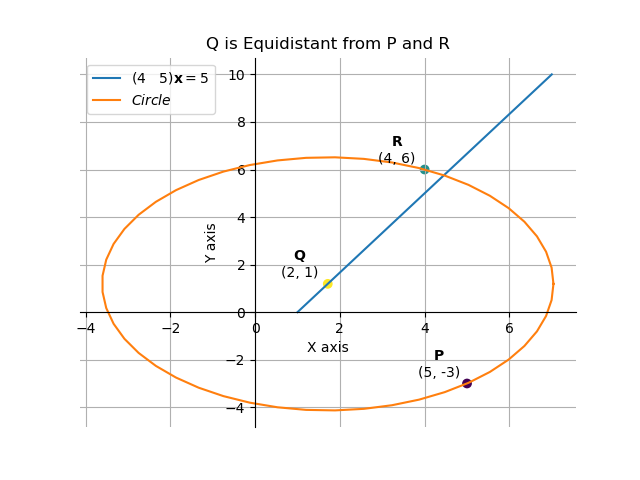
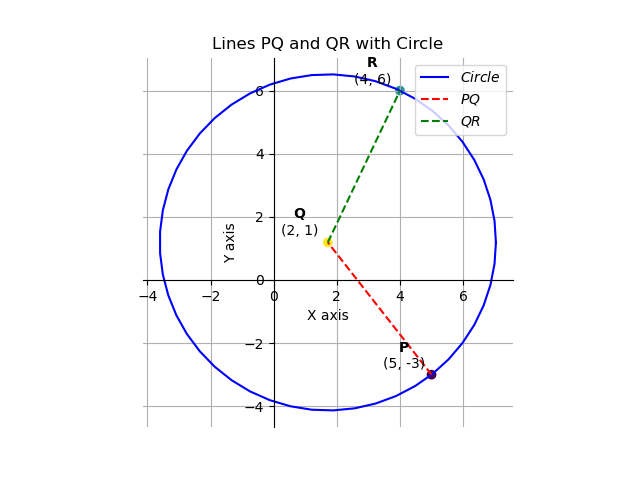
commit

diff --git a/assignment3/codes/distances.py b/assignment3/codes/distances.py
@@ -17,8 +17,6 @@ from conics.funcs import circ_gen
 from line.funcs import *
 
 # if using termux
-import subprocess
-import shlex
 
 # Define points P and R
 P = np.array([5, -3]).reshape(-1, 1)  # Point P (5, -3)
@@ -43,16 +41,12 @@ print(Q, r)  # Print the center and radius
 # Generating circle points
 x_circ = circ_gen(Q, r)
 
-# Generating lines
-k1 = -2
-k2 = 0
-x_A = line_norm(n, c, k1, k2)
+# Plotting the circle
+plt.plot(x_circ[0, :], x_circ[1, :], label='$Circle$', color='blue')  # Plot circle
 
-# Plotting all lines and circles
-plt.plot(x_A[0, :], x_A[1, :], label='$(4 \quad 5)\mathbf{x}=5$')  # Plot line
-plt.plot(x_circ[0, :], x_circ[1, :], label='$Circle$')  # Plot circle
-
+# Colors for points
 colors = np.arange(1, 4)
+
 # Labeling the coordinates
 tri_coords = np.block([P, R, Q])  # Create block matrix for coordinates
 plt.scatter(tri_coords[0, :], tri_coords[1, :], c=colors)
@@ -64,6 +58,10 @@ for i, txt in enumerate(vert_labels):
                  xytext=(-20, 5),  # distance from text to points (x, y)
                  ha='center')  # horizontal alignment
 
+# Add lines connecting points P, Q, and R
+plt.plot([P[0, 0], Q[0, 0]], [P[1, 0], Q[1, 0]], 'r--', label='$PQ$')  # Line joining P and Q
+plt.plot([Q[0, 0], R[0, 0]], [Q[1, 0], R[1, 0]], 'g--', label='$QR$')  # Line joining Q and R
+
 # Set axes styles and position
 ax = plt.gca()
 ax.spines['top'].set_color('none')
@@ -72,8 +70,12 @@ ax.spines['right'].set_color('none')
 ax.spines['bottom'].set_position('zero')
 ax.set_xlabel('X axis')
 ax.set_ylabel('Y axis')
+
+# Set equal aspect ratio so the circle isn't distorted
+ax.set_aspect('equal')
+
 # Show grid and legend
-ax.set_title("Q is Equidistant from P and R")
+ax.set_title("Lines PQ and QR with Circle")
 plt.legend(loc='best')
 plt.grid()  # minor
 plt.show()

diff --git a/assignment3/main.tex b/assignment3/main.tex
@@ -104,7 +104,8 @@ if $x=-4$,
 \begin{figure}[htp]
     \centering
     \includegraphics[width=10cm]{figs/Figure_1.png}
-    \label{fig:enter-label}
+    \caption{Point Q is equidistant from P and R}
+    \label{stemplot}
 \end{figure}
 
 \end{document}
